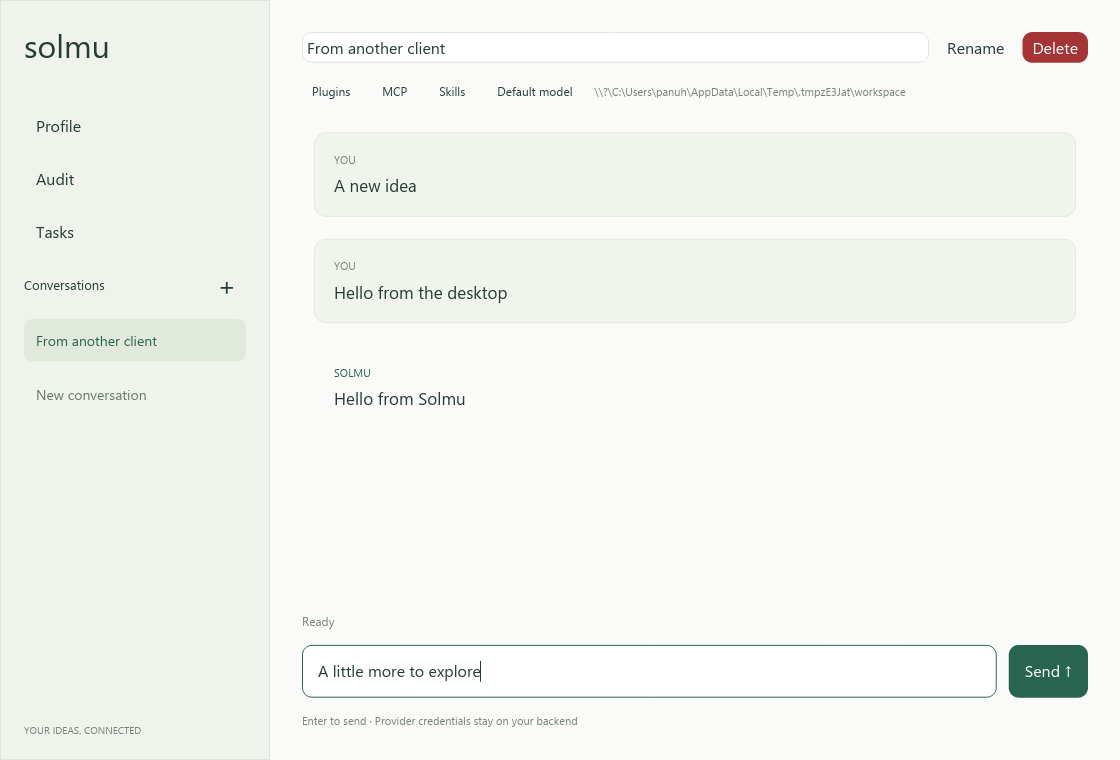
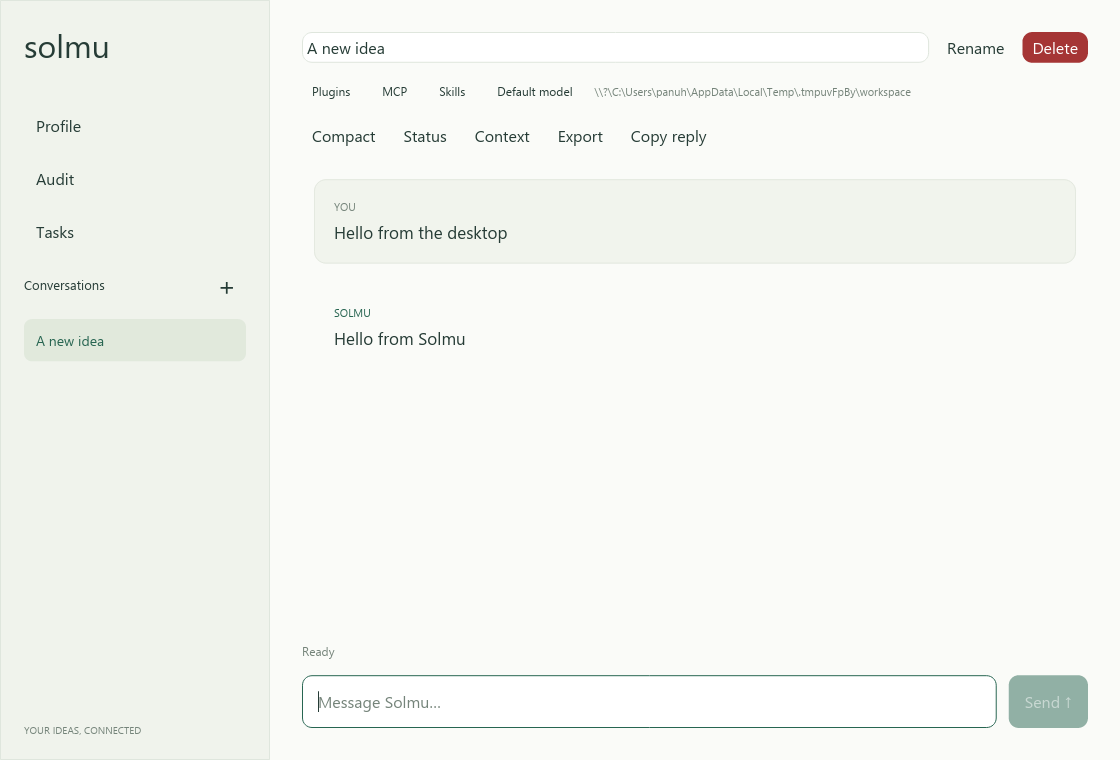
Improve Muxer GUI space controls

diff --git a/muxer-gui/src/main.rs b/muxer-gui/src/main.rs
@@ -1,6 +1,6 @@
 use iced::{
     Alignment, Element, Length, Subscription, Task, Theme,
-    widget::{button, column, container, pick_list, row, scrollable, text, text_input},
+    widget::{button, column, container, mouse_area, row, scrollable, text, text_input},
 };
 use serde_json::{Value, json};
 use solmu_client::{Action, Api};
@@ -31,7 +31,8 @@ struct MuxerGui {
     screen: String,
     input: String,
     notice: String,
-    new_space_type: SpaceType,
+    show_space_types: bool,
+    context_space: Option<u64>,
     desktops: HashMap<u64, Desktop>,
 }
 
@@ -42,8 +43,6 @@ enum SpaceType {
 }
 
 impl SpaceType {
-    const ALL: [Self; 2] = [Self::Solmu, Self::Terminal];
-
     fn launch(self) -> Value {
         match self {
             Self::Solmu => json!({"kind":"solmu"}),
@@ -66,9 +65,11 @@ enum Message {
     Tick,
     SessionChanged(String),
     WorkspaceChanged(String),
-    NewSpaceTypeChanged(SpaceType),
     InputChanged(String),
-    NewSpace,
+    ToggleSpaceMenu,
+    SpaceContextMenu(u64),
+    DeleteSpace(u64),
+    CreateSpace(SpaceType),
     NewTab,
     Split,
     SelectPane(u64),
@@ -96,7 +97,8 @@ impl MuxerGui {
             screen: String::new(),
             input: String::new(),
             notice: "Starting the embedded workspace engine…".into(),
-            new_space_type: SpaceType::Solmu,
+            show_space_types: false,
+            context_space: None,
             desktops: HashMap::new(),
         };
         let task = state.snapshot_task();
@@ -117,19 +119,38 @@ impl MuxerGui {
                 self.workspace = value;
                 Task::none()
             }
-            Message::NewSpaceTypeChanged(space_type) => {
-                self.new_space_type = space_type;
+            Message::ToggleSpaceMenu => {
+                self.show_space_types = !self.show_space_types;
                 Task::none()
+            }
+            Message::SpaceContextMenu(id) => {
+                self.context_space = Some(id);
+                Task::none()
+            }
+            Message::DeleteSpace(id) => {
+                self.context_space = None;
+                let session = self.session.clone();
+                perform(
+                    move || {
+                        request(
+                            &session,
+                            json!({"method":"close","params":{"target":"space","id":id}}),
+                        )
+                        .map(|_| ())
+                    },
+                    "Space deleted".into(),
+                )
             }
             Message::InputChanged(value) => {
                 self.input = value;
                 Task::none()
             }
-            Message::NewSpace => {
+            Message::CreateSpace(space_type) => {
+                self.show_space_types = false;
                 let (session, cwd, launch) = (
                     self.session.clone(),
                     self.workspace.clone(),
-                    self.new_space_type.launch(),
+                    space_type.launch(),
                 );
                 perform(
                     move || {
@@ -177,6 +198,8 @@ impl MuxerGui {
                 }
             }
             Message::FocusSpace(id) => {
+                self.context_space = None;
+                self.show_space_types = false;
                 let session = self.session.clone();
                 perform(
                     move || {
@@ -278,6 +301,23 @@ impl MuxerGui {
                             .as_array()
                             .cloned()
                             .unwrap_or_default();
+                        let pane_ids: std::collections::HashSet<_> = panes
+                            .iter()
+                            .filter_map(|pane| pane["id"].as_u64())
+                            .collect();
+                        self.desktops.retain(|id, _| pane_ids.contains(id));
+                        let space_ids: std::collections::HashSet<_> = self.snapshot["spaces"]
+                            .as_array()
+                            .into_iter()
+                            .flatten()
+                            .filter_map(|space| space["id"].as_u64())
+                            .collect();
+                        if self
+                            .context_space
+                            .is_some_and(|id| !space_ids.contains(&id))
+                        {
+                            self.context_space = None;
+                        }
                         let selected = self
                             .selected_pane
                             .filter(|id| panes.iter().any(|p| p["id"].as_u64() == Some(*id)))
@@ -462,20 +502,35 @@ impl MuxerGui {
             row![
                 text("SPACES").size(10).color(appearance::MUTED),
                 iced::widget::Space::new().width(Length::Fill),
-                pick_list(
-                    SpaceType::ALL,
-                    Some(self.new_space_type),
-                    Message::NewSpaceTypeChanged,
-                )
-                .width(Length::Fixed(104.0)),
                 button(text("＋").size(16))
-                    .on_press(Message::NewSpace)
+                    .on_press(Message::ToggleSpaceMenu)
                     .style(appearance::ghost)
                     .padding([3, 8])
             ]
             .align_y(Alignment::Center),
         ]
         .spacing(6);
+        if self.show_space_types {
+            spaces_section = spaces_section.push(
+                container(
+                    column![
+                        button(text("Terminal").size(12))
+                            .on_press(Message::CreateSpace(SpaceType::Terminal))
+                            .style(appearance::ghost)
+                            .padding([7, 10])
+                            .width(Length::Fill),
+                        button(text("Solmu").size(12))
+                            .on_press(Message::CreateSpace(SpaceType::Solmu))
+                            .style(appearance::ghost)
+                            .padding([7, 10])
+                            .width(Length::Fill),
+                    ]
+                    .spacing(3),
+                )
+                .padding(4)
+                .style(appearance::panel),
+            );
+        }
         for space in &spaces {
             let id = space["id"].as_u64().unwrap_or_default();
             let selected = Some(id) == active_space;
@@ -487,29 +542,50 @@ impl MuxerGui {
                 "Terminal"
             };
             spaces_section = spaces_section.push(
-                button(
-                    column![
-                        row![
-                            text("▰").size(12).color(if selected {
-                                appearance::PRIMARY
-                            } else {
-                                appearance::MUTED
-                            }),
-                            text(name).size(13),
-                            iced::widget::Space::new().width(Length::Fill),
-                            text(kind).size(9).color(appearance::MUTED)
+                mouse_area(
+                    button(
+                        column![
+                            row![
+                                text("▰").size(12).color(if selected {
+                                    appearance::PRIMARY
+                                } else {
+                                    appearance::MUTED
+                                }),
+                                text(name).size(13),
+                                iced::widget::Space::new().width(Length::Fill),
+                                text(kind).size(9).color(appearance::MUTED)
+                            ]
+                            .spacing(8)
+                            .align_y(Alignment::Center),
+                            text(cwd).size(10).color(appearance::MUTED),
                         ]
-                        .spacing(8)
-                        .align_y(Alignment::Center),
-                        text(cwd).size(10).color(appearance::MUTED),
-                    ]
-                    .spacing(3),
+                        .spacing(3),
+                    )
+                    .on_press(Message::FocusSpace(id))
+                    .style(move |theme, state| appearance::navigation(theme, state, selected))
+                    .padding([9, 10])
+                    .width(Length::Fill),
                 )
-                .on_press(Message::FocusSpace(id))
-                .style(move |theme, state| appearance::navigation(theme, state, selected))
-                .padding([9, 10])
-                .width(Length::Fill),
+                .on_right_press(Message::SpaceContextMenu(id)),
             );
+            if self.context_space == Some(id) {
+                spaces_section = spaces_section.push(
+                    container(
+                        button(
+                            text("Delete space")
+                                .size(11)
+                                .color(iced::Color::from_rgb8(190, 65, 65)),
+                        )
+                        .on_press(Message::DeleteSpace(id))
+                        .style(appearance::ghost)
+                        .padding([7, 10])
+                        .width(Length::Fill),
+                    )
+                    .padding(4)
+                    .style(appearance::panel)
+                    .width(Length::Fill),
+                );
+            }
             if Some(id) == active_space {
                 for tab in tabs.iter().filter(|tab| tab["space"].as_u64() == Some(id)) {
                     let tab_id = tab["id"].as_u64().unwrap_or_default();
@@ -584,7 +660,7 @@ impl MuxerGui {
                     .spacing(8)
                     .align_y(Alignment::Center)
             )
-            .on_press(Message::NewSpace)
+            .on_press(Message::ToggleSpaceMenu)
             .style(appearance::primary_button)
             .padding([10, 12])
             .width(Length::Fill),
@@ -713,17 +789,11 @@ impl MuxerGui {
         .width(Length::Fill)
         .height(Length::Fill)
         .style(appearance::panel);
-        let content = column![
-            toolbar,
-            terminal_panel,
-            text("MUXER CONTROL  ·  session state refreshes automatically")
-                .size(9)
-                .color(appearance::MUTED)
-        ]
-        .spacing(16)
-        .padding([22, 24])
-        .width(Length::Fill)
-        .height(Length::Fill);
+        let content = column![toolbar, terminal_panel]
+            .spacing(16)
+            .padding([22, 24])
+            .width(Length::Fill)
+            .height(Length::Fill);
         let terminal_content = content;
         let content: Element<'_, Message> = if active_solmu {
             if let Some(pane) = self.snapshot["active_pane"].as_u64()

diff --git a/e2e/desktop/screenshots.rs b/e2e/desktop/screenshots.rs
@@ -1,0 +1,36 @@
+use super::*;
+
+#[tokio::test(flavor = "multi_thread", worker_threads = 2)]
+async fn desktop_main_screen_screenshot() {
+    if std::env::var_os("SOLMU_CAPTURE_SCREENSHOTS").is_none() {
+        return;
+    }
+    let backend = Backend::start().await;
+    let mut ui =
+        tokio::task::block_in_place(|| Ui::new(solmu_desktop::application(Api::new(&backend.url))));
+    ui.wait("Ready").await;
+    ui.step("click \"Message Solmu…\"").await;
+    ui.step("type \"Hello from the desktop\"").await;
+    ui.step("type enter").await;
+    ui.wait("Hello from Solmu").await;
+    ui.wait("Ready").await;
+
+    let screenshot =
+        ui.emulator
+            .as_mut()
+            .unwrap()
+            .screenshot(&ui.program, &solmu_desktop::theme(), 1.0);
+    let path = solmu_e2e::support::root().join("docs/screenshots/desktop.png");
+    let mut encoder = png::Encoder::new(
+        std::fs::File::create(path).unwrap(),
+        screenshot.size.width,
+        screenshot.size.height,
+    );
+    encoder.set_color(png::ColorType::Rgba);
+    encoder.set_depth(png::BitDepth::Eight);
+    encoder
+        .write_header()
+        .unwrap()
+        .write_image_data(&screenshot.rgba)
+        .unwrap();
+}

diff --git a/e2e/desktop/conversations.rs b/e2e/desktop/conversations.rs
@@ -8,6 +8,11 @@ async fn desktop_thread_sidebar_streaming_history_crud_and_errors() {
     ui.wait("Ready").await;
     assert!(
         iced_test::simulator(ui.emulator.as_ref().unwrap().view(&ui.program))
+            .find("Provider credentials stay on your backend")
+            .is_err()
+    );
+    assert!(
+        iced_test::simulator(ui.emulator.as_ref().unwrap().view(&ui.program))
             .find("Ready · conversations saved locally")
             .is_err()
     );

diff --git a/clients/desktop/src/lib.rs b/clients/desktop/src/lib.rs
@@ -1721,9 +1721,6 @@ impl Desktop {
                         appearance::MUTED
                     }),
                 composer,
-                text("Enter to send · Provider credentials stay on your backend")
-                    .size(11)
-                    .color(appearance::MUTED)
             ]
             .spacing(16),
         )

diff --git a/e2e/desktop/mod.rs b/e2e/desktop/mod.rs
@@ -121,6 +121,7 @@ mod mcp;
 mod models;
 mod plugins;
 mod profile;
+mod screenshots;
 mod skills;
 mod tasks;
 mod tools;

diff --git a/docs/muxer-gui.md b/docs/muxer-gui.md
@@ -17,11 +17,12 @@ the `solmu` runtime for Solmu spaces; start the Solmu backend before using
 those spaces. Terminal spaces launch local shells and command-line clients.
 
 The sidebar shows the session, its spaces, tabs, and panes. Create spaces and
-tabs, split panes, send terminal input, and switch spaces. Choose **Solmu** or
-**Terminal** from the dropdown beside **Spaces** when creating a space.
-Solmu opens the shared native Solmu desktop interface, including its
-conversation list and Profile, Audit, Tasks, and other pages. Terminal keeps
-the terminal view for shells and command-line clients such as Claude Code.
+tabs, split panes, send terminal input, and switch spaces. Click **+** beside
+**Spaces** to choose a new **Terminal** or **Solmu** space. Right-click a space
+and choose **Delete space** to remove it. Solmu opens the shared native desktop
+interface, including its conversation list and Profile, Audit, Tasks, and
+other pages. Terminal opens a shell for command-line clients such as Claude
+Code.
 
 Muxer GUI owns the session lock while open. Close it before opening that
 session in the terminal Muxer app; the session layout and metadata are saved

diff --git a/muxer-gui/README.md b/muxer-gui/README.md
@@ -50,8 +50,9 @@ muxer-gui
 ```
 
 The app opens the local `default` session or creates it from the current
-folder. Choose **Solmu** or **Terminal** when creating a space. Solmu spaces
-show Solmu's shared native desktop interface; Terminal spaces show a shell or
-another command-line client such as Claude Code.
+folder. Click **+** beside **Spaces** and choose **Solmu** or **Terminal**.
+Right-click a space to delete it. Solmu spaces show Solmu's shared native
+desktop interface; Terminal spaces show a shell or another command-line client
+such as Claude Code.
 
 Read the [Muxer GUI guide](../docs/muxer-gui.md) and the [Muxer guide](../docs/muxer.md).
